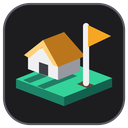
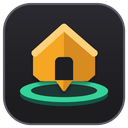
Use village marker for Next Settlement Calc

diff --git a/projects/travian-extensions/README.md b/projects/travian-extensions/README.md
@@ -14,7 +14,7 @@ Eight standalone browser extensions for Travian: forecasting, statistics history
 | <a id="travalarm"></a>[TravAlarm](extensions/travAlarm/) | Game timers, custom reminders and notifications | 3.53 |
 | <a id="travian-qol"></a>[Travian QoL](extensions/TravianQoL/) | Farm-list selection, reports and interface utilities | 1.3.1 |
 | <a id="rank-tracker"></a>[Rank Tracker](extensions/TravianRankTracker/) | Rankings, statistics history and comparison graphs | 5.1.1 |
-| <a id="next-settlement-calc"></a>[Next Settlement Calc](extensions/NextSettlementCalc/) | Culture-point forecasts and celebration planning | 2.6.15 |
+| <a id="next-settlement-calc"></a>[Next Settlement Calc](extensions/NextSettlementCalc/) | Culture-point forecasts and celebration planning | 2.6.16 |
 | <a id="npc-automerchant"></a>[NPC AutoMerchant](extensions/automerchant/) | Troop resource calculations and hero-transfer assistance | 3.2.3 |
 | <a id="night-mode"></a>[Night Mode](extensions/travian_night_mode/) | Persistent dark theme and button colours | 2.6.1 |
 | <a id="world-watch"></a>[World Watch](extensions/WorldWatch/) | World snapshots, spawn map, population gains, alliances and a 15c finder with oasis scoring | 1.7.1 |

diff --git a/projects/travian-extensions/extensions/NextSettlementCalc/README.md b/projects/travian-extensions/extensions/NextSettlementCalc/README.md
@@ -2,7 +2,7 @@
 
 Forecasts settlement culture-point thresholds from observed production and planned celebrations.
 
-**Version 2.6.15 · JavaScript · Manifest V3**
+**Version 2.6.16 · JavaScript · Manifest V3**
 
 [Usage guide](../../docs/USAGE.md#next-settlement-calc) · [Installation](../../README.md#install-in-brave-chrome-or-edge) · [All extensions](../../README.md)
 

diff --git a/projects/travian-extensions/CHANGELOG.md b/projects/travian-extensions/CHANGELOG.md
@@ -1,5 +1,9 @@
 # Changelog
 
+## Next Settlement Calc 2.6.16 — 2026-11-18
+
+- Uses an amber village marker and emerald map ring for a clearer toolbar icon.
+
 ## Next Settlement Calc 2.6.15 — 2026-11-18
 
 - Matches the extension icon to the popup’s charcoal, amber, and emerald palette.
